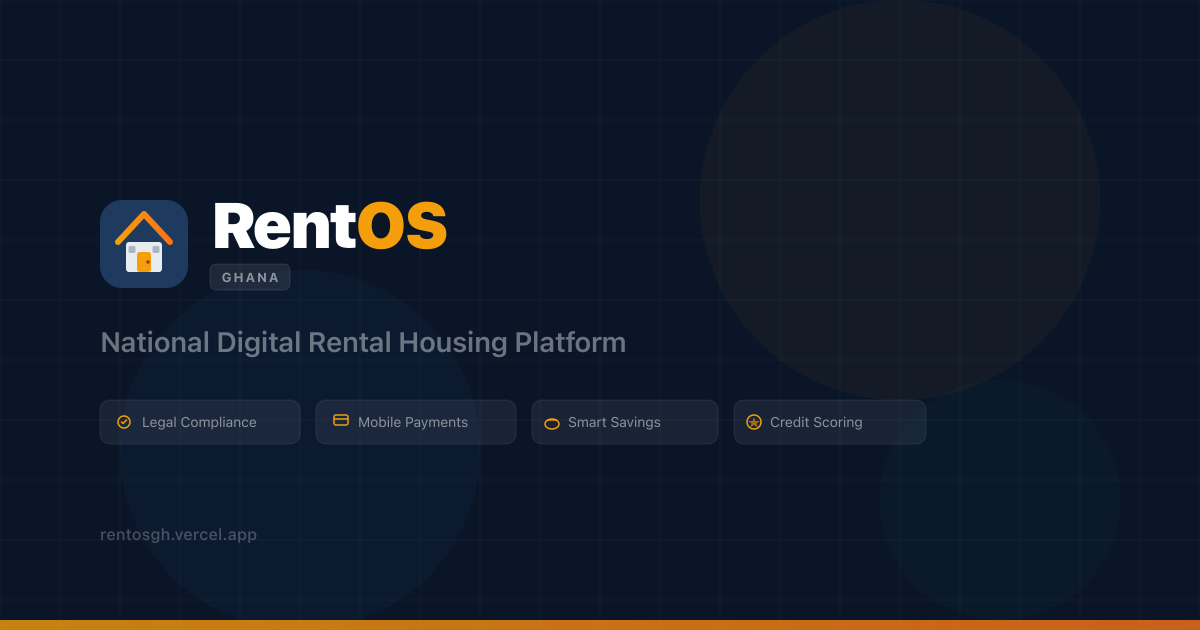
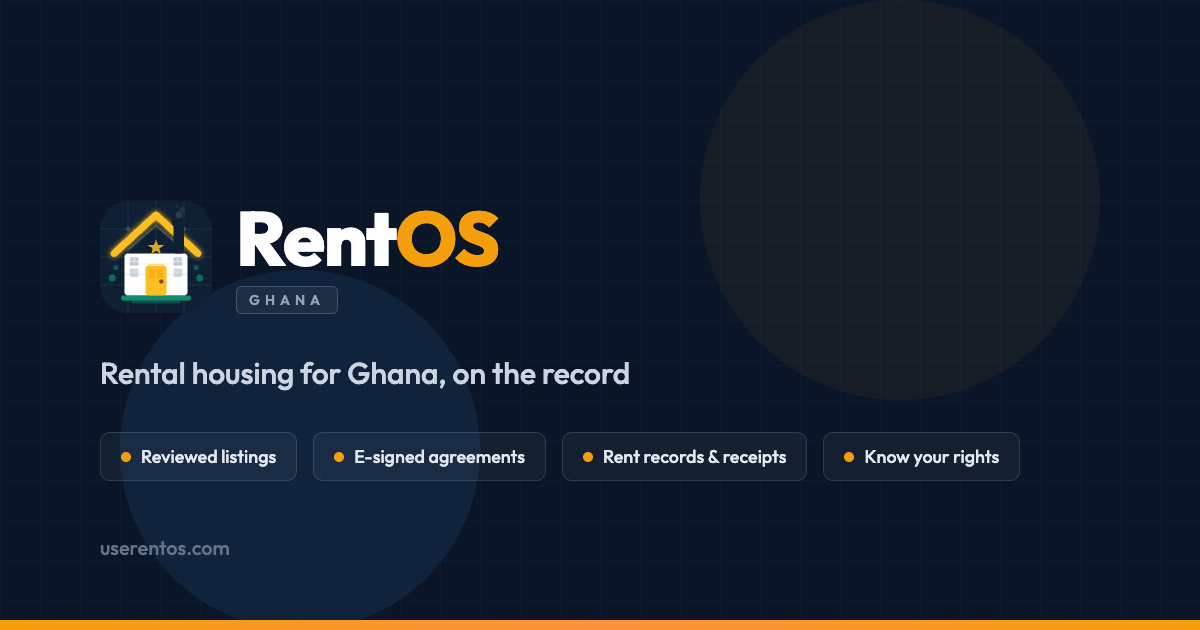
fix: last copy and hardening items from production re-verification
- Blog: posts about a regulated service (RentGuard savings, credit scores,
  mobile-money rent payments) carry requiresFeature and stay hidden from
  the public blog and landing page while that service is off. The seeder
  tags existing copies without touching updatedAt.
- Site metadata: description, social cards, keywords and manifest no
  longer advertise mobile-money payments, savings or credit scoring; the
  social preview image is replaced (it said "National Digital Rental
  Housing Platform" and showed an old domain).
- Privacy: credit scores and financier/employer sharing are described as
  applying only where those services are offered.
- API: request bodies are parsed after the rate limiters, so malformed or
  oversized bodies still count; every response varies on Origin; cast
  errors no longer echo the input or internal field names.

diff --git a/apps/api/src/data/referenceData.ts b/apps/api/src/data/referenceData.ts
@@ -92,13 +92,13 @@ export const LEGAL_ARTICLES = [
 
 export const BLOG_POSTS = [
     { reviewed: true, title: 'Understanding the Rent Advance Limit in Ghana', slug: 'rent-advance-cap', coverImage: 'https://images.unsplash.com/photo-1554224155-6726b3ff858f?w=800', excerpt: 'What the Rent Act says about how much rent advance a landlord may demand.', content: '## What Does the Law Say?\n\nSection 25(5) of the **Rent Act, 1963 (Act 220)** limits rent advance:\n\n- For a tenancy of **more than six months**, a landlord may not demand more than **six months\'** rent in advance.\n- For a **monthly** (or shorter) tenancy, the limit is **one month\'s** rent.\n\nWhich limit applies depends on the length of the tenancy, not on the amount asked for.\n\n## What to Do if Your Landlord Asks for More\n\n1. **Talk to your landlord** and refer to the law\n2. **Raise a complaint** with the Rent Control Department\n3. **File a dispute on RentOS** to keep a record and notify the other party\n\n> RentOS flags agreements whose advance exceeds these limits before anyone signs. The flag is information, not legal advice.', author: 'RentOS Team', tags: ['tenant rights', 'rent advance', 'legal guide'], published: true },
-    { reviewed: true, title: 'How to Save for Rent Using RentGuard', slug: 'rentguard-savings-guide', coverImage: 'https://images.unsplash.com/photo-1579621970563-ebec7560ff3e?w=800', excerpt: 'A step-by-step guide to using RentGuard savings plans to plan for your next rent payment.', content: '## What Is RentGuard?\n\n**RentGuard** is the savings feature in RentOS. It helps you set money aside gradually for rent instead of finding a large lump sum at once.\n\n## Getting Started\n\n### Step 1: Create a Savings Plan\n\nGo to **RentGuard** and choose **New Savings Plan**. Set:\n- Your target amount\n- How often you contribute (daily, weekly or monthly)\n- Your target date\n\n### Step 2: Add Money to Your Wallet\n\nTop up your RentOS wallet with mobile money (MTN MoMo, Telecel Cash or AirtelTigo Money) using the payment options shown in the app.\n\n### Step 3: Turn On Auto-Debit (Optional)\n\nWith **auto-debit** on, RentOS moves your contribution from your **RentOS wallet** into your plan on schedule. If your wallet balance is too low, the contribution is skipped and you are notified.\n\n### Step 4: Track Progress\n\nYour plan shows how close you are to your target, and you are notified when you reach it.\n\n> **Tip:** Start saving soon after your last rent payment — small, regular contributions add up.\n\nYour wallet and savings plans are records of money you paid in. They are not bank deposits.', author: 'RentOS Team', tags: ['savings', 'rentguard', 'guide'], published: true },
+    { reviewed: true, title: 'How to Save for Rent Using RentGuard', slug: 'rentguard-savings-guide', requiresFeature: 'wallet' as const, coverImage: 'https://images.unsplash.com/photo-1579621970563-ebec7560ff3e?w=800', excerpt: 'A step-by-step guide to using RentGuard savings plans to plan for your next rent payment.', content: '## What Is RentGuard?\n\n**RentGuard** is the savings feature in RentOS. It helps you set money aside gradually for rent instead of finding a large lump sum at once.\n\n## Getting Started\n\n### Step 1: Create a Savings Plan\n\nGo to **RentGuard** and choose **New Savings Plan**. Set:\n- Your target amount\n- How often you contribute (daily, weekly or monthly)\n- Your target date\n\n### Step 2: Add Money to Your Wallet\n\nTop up your RentOS wallet with mobile money (MTN MoMo, Telecel Cash or AirtelTigo Money) using the payment options shown in the app.\n\n### Step 3: Turn On Auto-Debit (Optional)\n\nWith **auto-debit** on, RentOS moves your contribution from your **RentOS wallet** into your plan on schedule. If your wallet balance is too low, the contribution is skipped and you are notified.\n\n### Step 4: Track Progress\n\nYour plan shows how close you are to your target, and you are notified when you reach it.\n\n> **Tip:** Start saving soon after your last rent payment — small, regular contributions add up.\n\nYour wallet and savings plans are records of money you paid in. They are not bank deposits.', author: 'RentOS Team', tags: ['savings', 'rentguard', 'guide'], published: true },
     { reviewed: true, title: '5 Things Every Tenant Should Know Before Signing a Lease', slug: 'tenant-lease-checklist', coverImage: 'https://images.unsplash.com/photo-1450101499163-c8848c66ca85?w=800', excerpt: 'Essential things to check in your rental agreement before you sign.', content: '## Before You Sign\n\nA tenancy agreement is a serious commitment. Check these five things first.\n\n### 1. Rent Advance\n\nUnder Section 25(5) of the Rent Act, 1963 (Act 220), a landlord may not demand more than **six months\'** advance for a tenancy longer than six months, or more than **one month\'s** for a monthly tenancy.\n\n### 2. Notice Period\n\nCheck the notice each party must give to end the tenancy.\n\n### 3. Repairs\n\nThe Rent Act requires landlords to keep the premises in a reasonable state of repair. The agreement should say who handles which repairs.\n\n### 4. Utilities\n\nWho pays for water, electricity and internet? Get it in writing.\n\n### 5. Disputes\n\nDoes the agreement say how disputes will be handled?\n\n> **Bottom line:** Take time to read the whole agreement. RentOS flags some terms that may breach rental law, but the checks are automated and incomplete — they are not legal advice.', author: 'RentOS Team', tags: ['tenant rights', 'agreements', 'tips'], published: true },
     { reviewed: true, title: "A Landlord's Guide to Digital Rental Agreements", slug: 'landlord-digital-agreements', coverImage: 'https://images.unsplash.com/photo-1554224154-22dec7ec8818?w=800', excerpt: 'What digital agreements on RentOS do, and how to create one.', content: '## Why Go Digital?\n\n- **Automated checks** flag some terms that may breach rental law, such as rent advance above the legal limit, before anyone signs\n- **Electronic signatures** — electronic signatures and records are recognised under the Electronic Transactions Act, 2008 (Act 772); whether a particular agreement is enforceable still depends on its terms and the law\n- Both parties can **open the agreement at any time**\n- A clear record helps if a **dispute** arises\n\n## How to Create One on RentOS\n\n1. Go to **Agreements > New Agreement**\n2. Select the property and the tenant\n3. Set the rent amount, duration and advance\n4. Add your terms\n5. Review any **compliance flags**\n6. Send to the tenant for signature\n\n> The compliance checks are information, not legal advice. For anything unusual, speak to a lawyer.', author: 'RentOS Team', tags: ['landlord guide', 'agreements', 'digital'], published: true },
-    { reviewed: true, title: 'How Your Rental Credit Score Works on RentOS', slug: 'rental-credit-score', coverImage: 'https://images.unsplash.com/photo-1611974789855-9c2a0a7236a3?w=800', excerpt: 'The factors that make up your RentOS credit score and how to improve it.', content: '## What Is Your Rental Credit Score?\n\nYour RentOS credit score is a **0–100 rating** calculated from your activity on RentOS. Landlords you apply to can see it.\n\n## Score Breakdown\n\n| Factor | Max Points | What It Measures |\n|---|---|---|\n| Payment History | **40** | Completed rent payments on RentOS |\n| Savings Consistency | **20** | RentGuard savings progress |\n| Agreement Compliance | **20** | An active agreement with no compliance flags |\n| Dispute Record | **10** | Open or escalated disputes lower it |\n| Account Age | **10** | How long you have had your account |\n\n## Tips to Improve Your Score\n\n- **Pay rent through RentOS** — payment history is worth the most points\n- **Save regularly** with RentGuard, even small amounts\n- **Resolve disputes** through mediation\n\n> The score only reflects what happens on RentOS. If you think it is wrong, contact support and ask for a person to review it.', author: 'RentOS Team', tags: ['credit score', 'tenant guide'], published: true },
+    { reviewed: true, title: 'How Your Rental Credit Score Works on RentOS', slug: 'rental-credit-score', requiresFeature: 'credit_reporting' as const, coverImage: 'https://images.unsplash.com/photo-1611974789855-9c2a0a7236a3?w=800', excerpt: 'The factors that make up your RentOS credit score and how to improve it.', content: '## What Is Your Rental Credit Score?\n\nYour RentOS credit score is a **0–100 rating** calculated from your activity on RentOS. Landlords you apply to can see it.\n\n## Score Breakdown\n\n| Factor | Max Points | What It Measures |\n|---|---|---|\n| Payment History | **40** | Completed rent payments on RentOS |\n| Savings Consistency | **20** | RentGuard savings progress |\n| Agreement Compliance | **20** | An active agreement with no compliance flags |\n| Dispute Record | **10** | Open or escalated disputes lower it |\n| Account Age | **10** | How long you have had your account |\n\n## Tips to Improve Your Score\n\n- **Pay rent through RentOS** — payment history is worth the most points\n- **Save regularly** with RentGuard, even small amounts\n- **Resolve disputes** through mediation\n\n> The score only reflects what happens on RentOS. If you think it is wrong, contact support and ask for a person to review it.', author: 'RentOS Team', tags: ['credit score', 'tenant guide'], published: true },
     { reviewed: true, title: 'Navigating Rent Disputes in Ghana: A Practical Guide', slug: 'rent-dispute-guide', coverImage: 'https://images.unsplash.com/photo-1589829545856-d10d557cf95f?w=800', excerpt: 'Step-by-step guide to handling common rental disputes in Ghana.', content: '## Disputes Happen — Here Is How to Handle Them\n\n## Step 1: Document Everything\n\nKeep records of **all messages, payments and agreements**. Take photos of any damage or repair issues.\n\n## Step 2: Communicate in Writing\n\nFollow up conversations in writing — text, email or RentOS messages.\n\n## Step 3: File a Dispute on RentOS\n\nRentOS records your complaint and notifies the other party. Where available, a mediator can help.\n\n## Step 4: Rent Control Department\n\nIf you cannot agree, the Rent Control Department investigates complaints and can arrange mediation. Bring your agreement, receipts, photos and correspondence.\n\n## Step 5: The Courts\n\nIf mediation fails, the matter can go to court. Consider getting legal advice.\n\n> This guide is general information, not legal advice.', author: 'RentOS Team', tags: ['disputes', 'legal guide', 'tenant rights'], published: true },
     { reviewed: true, title: 'A Guide to the Rent Control Department', slug: 'ghana-rent-control-guide', coverImage: 'https://images.unsplash.com/photo-1541872703-74c5e44368f9?w=800', excerpt: 'What the Rent Control Department does and how to raise a complaint.', content: '## What Is the Rent Control Department?\n\nThe Rent Control Department was established under the **Rent Act, 1963 (Act 220)**. It investigates complaints about residential tenancies and can arrange mediation between landlords and tenants.\n\n## Raising a Complaint\n\nVisit your nearest Rent Control office and bring:\n\n- Your tenancy agreement (if you have one)\n- Rent receipts\n- Photos of the premises, for repair issues\n- A written statement of your complaint\n- Any messages or letters with the other party\n\nCheck opening hours, fees and procedures with the office before you go.\n\n> This guide is general information, not legal advice.', author: 'RentOS Team', tags: ['rent control', 'legal guide'], published: true },
-    { reviewed: true, title: 'Mobile Money and Rent Payments: A Modern Guide', slug: 'mobile-money-rent-payments', coverImage: 'https://images.unsplash.com/photo-1556742049-0cfed4f6a45d?w=800', excerpt: 'How to pay rent with MTN MoMo, Telecel Cash and AirtelTigo Money on RentOS.', content: '## Paying Rent with Mobile Money\n\nRentOS accepts rent payments by mobile money through our payment provider.\n\n## Supported Wallets\n\n- **MTN Mobile Money (MoMo)**\n- **Telecel Cash**\n- **AirtelTigo Money**\n\nBank transfer is also offered where it is available in the app.\n\n## Security Tips\n\n- Never share your mobile money PIN — RentOS will never ask for it\n- Pay through RentOS so you get a receipt for every payment\n- Turn on transaction notifications on your phone\n\n> Completed rent payments through RentOS count towards your rental credit score.', author: 'RentOS Team', tags: ['payments', 'mobile money', 'guide'], published: true },
+    { reviewed: true, title: 'Mobile Money and Rent Payments: A Modern Guide', slug: 'mobile-money-rent-payments', requiresFeature: 'rent_collection' as const, coverImage: 'https://images.unsplash.com/photo-1556742049-0cfed4f6a45d?w=800', excerpt: 'How to pay rent with MTN MoMo, Telecel Cash and AirtelTigo Money on RentOS.', content: '## Paying Rent with Mobile Money\n\nRentOS accepts rent payments by mobile money through our payment provider.\n\n## Supported Wallets\n\n- **MTN Mobile Money (MoMo)**\n- **Telecel Cash**\n- **AirtelTigo Money**\n\nBank transfer is also offered where it is available in the app.\n\n## Security Tips\n\n- Never share your mobile money PIN — RentOS will never ask for it\n- Pay through RentOS so you get a receipt for every payment\n- Turn on transaction notifications on your phone\n\n> Completed rent payments through RentOS count towards your rental credit score.', author: 'RentOS Team', tags: ['payments', 'mobile money', 'guide'], published: true },
 ]
 
 /** Items fit for a production database — see ReviewMeta. The flag is stripped. */

diff --git a/apps/web/src/pages/legal/PrivacyPage.tsx b/apps/web/src/pages/legal/PrivacyPage.tsx
@@ -78,7 +78,7 @@ export function PrivacyPage() {
             <><strong>Tenant profile (optional):</strong> details you choose to add, such as date of birth, household (spouse, children, dependents, occupants), employment, income and income sources, education, languages, lifestyle (smoking, drinking, pets, noise, dietary needs), religion, references, emergency contact, rental and eviction history, budget and search preferences, and proof-of-income or proof-of-address documents. Religion and dietary needs can reveal special personal data (religious belief or health). They are never required — leave them blank unless you want landlords you share your profile with to see them.</>,
             <><strong>Tenancy and property records:</strong> listings (address, photos, rent, features), applications, agreements and signatures, move-in/move-out and inspection records, maintenance requests, disputes and the statements in them, reviews, and favourites.</>,
             <><strong>Money:</strong> rent and other payments, receipts, wallet and savings-plan records, payout accounts (bank or mobile-money numbers), and — if you use them — loan, financing, insurance, investment and payroll-deduction records. We never receive your mobile-money PIN or card number.</>,
-            <><strong>Scores we calculate:</strong> your Rent Credit Score, calculated from your payment, savings, agreement and dispute history on RentOS and your account age.</>,
+            <><strong>Scores:</strong> credit scoring is not currently offered. Where it is (only with a licensed provider), a Rent Credit Score may be calculated from your payment, savings, agreement and dispute history on RentOS and your account age.</>,
             <><strong>Messages and reports:</strong> chat messages, content you report, and people you block. Messages are not end-to-end encrypted.</>,
             <><strong>Business and work profiles:</strong> for service providers, businesses, employers, agents and financiers — the business and contact details you enter (for employers this includes TIN and SSNIT employer number, and employee records you add).</>,
             <><strong>Device and usage data:</strong> IP address, device and browser type, push-notification tokens, and server logs. Views of public registry pages are recorded with a one-way hash of the IP address, the browser details and the referring page.</>,
@@ -118,7 +118,7 @@ export function PrivacyPage() {
           id: 'data-sharing',
           title: 'Who We Share It With',
           content: list([
-            <><strong>Other users, as the service requires:</strong> landlords and agents see the applications and profile information you send them; parties to an agreement or dispute see what is relevant to it; financiers see applications you submit to them, including your Rent Credit Score; employers see the housing and deduction records you link to them; public listings are visible to anyone.</>,
+            <><strong>Other users, as the service requires:</strong> landlords and agents see the applications and profile information you send them; parties to an agreement or dispute see what is relevant to it; where financing or payroll deductions are offered (they are not currently), financiers see applications you submit to them and employers see the housing and deduction records you link to them; public listings are visible to anyone.</>,
             <><strong>RentOS staff and appointed officials:</strong> our administrators, and officials we give an account (for example, rent-control or legal officers who mediate disputes), can see what their role needs under access controls and audit logging — including the user directory (name, email, phone, role), identity-verification requests with the Ghana Card number submitted, disputes they handle, and failed-payment records reviewed for fraud. Gross rent totals are visible to government accounts only for landlords who switch on tax reporting. Market statistics we publish are aggregated.</>,
             <><strong>Service providers</strong> that process data for us, listed below.</>,
             <><strong>Integrations you set up:</strong> if your organisation registers a webhook, the record IDs and titles it subscribes to are sent to the address you chose.</>,

diff --git a/apps/web/index.html b/apps/web/index.html
@@ -6,8 +6,8 @@
 
     <!-- Primary Meta -->
     <title>RentOS Ghana — Digital Rental Housing Platform</title>
-    <meta name="description" content="A digital platform for renting in Ghana. Find rental properties, sign tenancy agreements electronically, pay rent via mobile money, build your rental history, and resolve disputes — all in one platform." />
-    <meta name="keywords" content="rent, Ghana, rental housing, property management, mobile money, MTN MoMo, tenant, landlord, rental agreement, credit score, proptech" />
+    <meta name="description" content="A digital platform for renting in Ghana. Find reviewed rental listings, sign tenancy agreements electronically, keep your rent records and receipts, and resolve disputes, all in one place." />
+    <meta name="keywords" content="rent, Ghana, rental housing, property management, tenant, landlord, rental agreement, tenancy law, proptech" />
     <meta name="author" content="RentOS Ghana" />
     <meta name="theme-color" content="#1e3a5f" />
 
@@ -19,7 +19,7 @@
     <meta property="og:type" content="website" />
     <meta property="og:url" content="__SITE_URL__/" />
     <meta property="og:title" content="RentOS Ghana — Digital Rental Housing Platform" />
-    <meta property="og:description" content="Find rental properties, sign tenancy agreements electronically, pay rent via mobile money, build your rental history, and resolve disputes — all in one platform." />
+    <meta property="og:description" content="Find reviewed rental listings, sign tenancy agreements electronically, keep your rent records, and resolve disputes, all in one place." />
     <meta property="og:image" content="__SITE_URL__/og-image.png" />
     <meta property="og:image:width" content="1200" />
     <meta property="og:image:height" content="630" />
@@ -30,12 +30,12 @@
     <meta name="twitter:card" content="summary_large_image" />
     <meta name="twitter:url" content="__SITE_URL__/" />
     <meta name="twitter:title" content="RentOS Ghana — Digital Rental Housing Platform" />
-    <meta name="twitter:description" content="Find rental properties, sign tenancy agreements electronically, pay rent via mobile money, build your rental history, and resolve disputes — all in one platform." />
+    <meta name="twitter:description" content="Find reviewed rental listings, sign tenancy agreements electronically, keep your rent records, and resolve disputes, all in one place." />
     <meta name="twitter:image" content="__SITE_URL__/og-image.png" />
 
     <!-- WhatsApp / General -->
     <meta itemprop="name" content="RentOS Ghana" />
-    <meta itemprop="description" content="A digital platform for renting in Ghana. Find a home, pay rent, save, and know your rights." />
+    <meta itemprop="description" content="A digital platform for renting in Ghana. Find a home, sign your agreement, keep your records, and know your rights." />
     <meta itemprop="image" content="__SITE_URL__/og-image.png" />
 
     <!-- Canonical -->

diff --git a/apps/api/src/__tests__/blog-regulated-posts.integration.test.ts b/apps/api/src/__tests__/blog-regulated-posts.integration.test.ts
@@ -1,0 +1,49 @@
+import mongoose from 'mongoose'
+import express from 'express'
+import type { Server } from 'node:http'
+import type { AddressInfo } from 'node:net'
+import { afterAll, afterEach, beforeAll, describe, expect, it } from 'vitest'
+import { BlogPost } from '../models/BlogPost.js'
+import { reloadRegulatedFeatures } from '../config/regulatedFeatures.js'
+import { seedReviewedReferenceContent } from '../data/seedReferenceContent.js'
+import router from '../routes/blog.js'
+
+const uri = 'mongodb://localhost:28018/rentos_compliance_e2e'
+const slugs = ['rentguard-savings-guide', 'rent-dispute-guide']
+describe.skipIf(process.env.RENTOS_TEST_MONGO_URI !== uri)('blog posts about regulated services', () => {
+  let server: Server
+  const base = () => `http://127.0.0.1:${(server.address() as AddressInfo).port}/api/blog`
+  const seededAt = new Date('2026-08-13T16:14:26Z')
+
+  beforeAll(async () => {
+    await mongoose.connect(uri)
+    await BlogPost.deleteMany({ slug: { $in: slugs } })
+    await BlogPost.collection.insertMany(slugs.map(slug => ({ slug, title: slug, content: `Edited copy of ${slug}`, excerpt: 'x', author: 'RentOS', published: true, platform: true, createdAt: seededAt, updatedAt: new Date('2026-09-01T00:00:00Z') })))
+    const app = express(); app.use('/api/blog', router)
+    server = await new Promise<Server>(resolve => { const listener = app.listen(0, '127.0.0.1', () => resolve(listener)) })
+  })
+  afterEach(() => reloadRegulatedFeatures(process.env))
+  afterAll(async () => {
+    if (server) await new Promise<void>(resolve => server.close(() => resolve()))
+    await BlogPost.deleteMany({ slug: { $in: slugs } })
+    await mongoose.disconnect()
+  })
+
+  it('tags existing posts with the feature they describe without marking them edited', async () => {
+    await seedReviewedReferenceContent()
+    const savings = await BlogPost.findOne({ slug: 'rentguard-savings-guide' }).lean()
+    expect(savings).toMatchObject({ requiresFeature: 'wallet', content: 'Edited copy of rentguard-savings-guide' })
+    expect((savings as unknown as { updatedAt: Date }).updatedAt.toISOString()).toBe('2026-09-01T00:00:00.000Z')
+  })
+
+  it('hides a post about a disabled service from the list and its page, and shows it once offered', async () => {
+    reloadRegulatedFeatures({ NODE_ENV: 'production' })
+    const hidden = (await (await fetch(base())).json()).data.items.map((p: { slug: string }) => p.slug)
+    expect(hidden).toContain('rent-dispute-guide')
+    expect(hidden).not.toContain('rentguard-savings-guide')
+    expect((await fetch(`${base()}/slug/rentguard-savings-guide`)).status).toBe(404)
+
+    reloadRegulatedFeatures({ NODE_ENV: 'production', REGULATED_FEATURES: 'wallet', REGULATED_BASIS_WALLET: 'licence' })
+    expect((await fetch(`${base()}/slug/rentguard-savings-guide`)).status).toBe(200)
+  })
+})

diff --git a/apps/api/src/routes/blog.ts b/apps/api/src/routes/blog.ts
@@ -6,6 +6,7 @@ import { BlogPost } from '../models/BlogPost.js'
 import { success, error } from '../utils/response.js'
 import { param } from '../utils/params.js'
 import { User } from '../models/User.js'
+import { REGULATED_FEATURES, isRegulatedFeatureEnabled } from '../config/regulatedFeatures.js'
 
 const router = Router()
 
@@ -38,9 +39,16 @@ const PLATFORM_ONLY: Record<string, unknown> = {
   ] }],
 }
 
+// Posts about a regulated service stay hidden while it isn't offered, so the
+// blog never advertises something the operator isn't licensed to provide.
+function offeredOnly(): Record<string, unknown> {
+  const off = REGULATED_FEATURES.filter((feature) => !isRegulatedFeatureEnabled(feature))
+  return off.length ? { requiresFeature: { $nin: off } } : {}
+}
+
 // Public: list published posts on the platform's own blog
 router.get('/', async (req, res) => {
-  const filter: Record<string, unknown> = { published: true, ...PLATFORM_ONLY }
+  const filter: Record<string, unknown> = { published: true, ...PLATFORM_ONLY, ...offeredOnly() }
   if (req.query.tag) filter.tags = req.query.tag
   if (req.query.search) {
     const escaped = escapeRegex(String(req.query.search))
@@ -57,7 +65,7 @@ router.get('/', async (req, res) => {
 
 // Public: get single post by slug
 router.get('/slug/:slug', async (req, res) => {
-  const slugFilter: Record<string, unknown> = { slug: param(req.params.slug), published: true, ...PLATFORM_ONLY }
+  const slugFilter: Record<string, unknown> = { slug: param(req.params.slug), published: true, ...PLATFORM_ONLY, ...offeredOnly() }
   const post = await BlogPost.findOne(slugFilter).lean()
   if (!post) { error(res, 'Post not found', 404); return }
   success(res, { ...post, id: (post._id as Types.ObjectId).toString() })

diff --git a/apps/api/src/index.ts b/apps/api/src/index.ts
@@ -144,6 +144,9 @@ if (envOrigins.length === 0 && isProduction) {
   )
 }
 
+// The CORS headers depend on Origin even when an origin is refused, so say so
+// to any cache in front of the API.
+app.use((_req, res, next) => { res.vary('Origin'); next() })
 app.use(
   cors({
     origin: createCorsOrigin({
@@ -162,12 +165,6 @@ app.use(
 app.use('/api/webhooks/payments', paymentWebhookRoutes)
 app.use('/api/webhooks/marketplace', marketplaceWebhookRoutes)
 app.use('/api/webhooks/payouts', payoutWebhookRoutes)
-
-app.use(express.json({ limit: '100kb' }))
-
-// NoSQL injection guard — strip $-prefixed / dotted keys from all input
-// before any route can feed them into a Mongoose query.
-app.use(sanitizeRequest)
 
 // ─── Simulator → finalize bridge ───
 // In `PAYMENTS_PROVIDER_MODE !== 'live'`, the simulator dispatches a completion
@@ -284,6 +281,12 @@ app.get('/api/health', (_req, res) => {
 // Baseline limiter for everything else under /api — generous, so legitimate
 // use is unaffected but unauthenticated scraping loops are capped.
 app.use('/api', apiLimiter)
+// Bodies are parsed after the limiters, so a malformed or oversized body is
+// still counted against them instead of failing before they run.
+app.use(express.json({ limit: '100kb' }))
+// NoSQL injection guard — strip $-prefixed / dotted keys from all input
+// before any route can feed them into a Mongoose query.
+app.use(sanitizeRequest)
 // Request logging middleware. Query strings are stripped: they can carry
 // credentials (e.g. ?token= on download links) and must never hit log files.
 app.use((req, res, next) => {

diff --git a/apps/api/src/data/seedReferenceContent.ts b/apps/api/src/data/seedReferenceContent.ts
@@ -1,4 +1,5 @@
 import { createHash } from 'crypto'
+import type { RegulatedFeature } from '../config/regulatedFeatures.js'
 import { LegalArticle } from '../models/LegalArticle.js'
 import { BlogPost } from '../models/BlogPost.js'
 import { LEGAL_ARTICLES, BLOG_POSTS, SUPERSEDED_SEED_CONTENT, reviewedOnly } from './referenceData.js'
@@ -71,6 +72,12 @@ export async function seedReviewedReferenceContent(): Promise<{ articles: Conten
     } else if (existing.content !== post.content && untouchedSeed(existing, SUPERSEDED_SEED_CONTENT.blogPosts[post.slug])) {
       await BlogPost.updateOne({ _id: existing._id }, { $set: post })
       posts.corrected++
+    }
+    // Visibility metadata follows the seed even on edited copies; leave updatedAt
+    // alone so the copy still reads as untouched for future corrections.
+    const requiresFeature = (post as { requiresFeature?: RegulatedFeature }).requiresFeature
+    if (existing && requiresFeature) {
+      await BlogPost.updateOne({ _id: existing._id, requiresFeature: { $ne: requiresFeature } }, { $set: { requiresFeature } }, { timestamps: false })
     }
   }
   const seededSlugs = new Set(reviewedPosts.map((p) => p.slug))

diff --git a/apps/api/src/models/BlogPost.ts b/apps/api/src/models/BlogPost.ts
@@ -1,4 +1,5 @@
 import mongoose, { Schema, type Document } from 'mongoose'
+import { REGULATED_FEATURES, type RegulatedFeature } from '../config/regulatedFeatures.js'
 
 export interface IBlogPost extends Document {
   title: string
@@ -19,6 +20,8 @@ export interface IBlogPost extends Document {
    * flag existed — see PLATFORM_ONLY in routes/blog.ts for how those are read.
    */
   platform?: boolean
+  // A post that describes a regulated service is public only while it is offered.
+  requiresFeature?: RegulatedFeature
   status?: 'draft' | 'in_review' | 'scheduled' | 'published' | 'archived' | 'removed'
   scheduledFor?: Date
   /**
@@ -46,6 +49,7 @@ const blogPostSchema = new Schema<IBlogPost>({
   authorId: { type: String, index: true },
   storefrontId: { type: String, index: true },
   platform: { type: Boolean, index: true },
+  requiresFeature: { type: String, enum: REGULATED_FEATURES },
   status: { type: String, enum: ['draft', 'in_review', 'scheduled', 'published', 'archived', 'removed'], default: 'draft', index: true },
   scheduledFor: Date,
   publishedAt: Date,

diff --git a/apps/api/src/__tests__/cors-policy.test.ts b/apps/api/src/__tests__/cors-policy.test.ts
@@ -56,3 +56,13 @@ describe('CORS origin policy', () => {
     }
   })
 })
+
+describe('cast errors', () => {
+  it('do not echo the raw input or internal field names', async () => {
+    const res = { status: vi.fn().mockReturnThis(), json: vi.fn() }
+    const err = Object.assign(new Error('Cast to ObjectId failed'), { name: 'CastError', kind: 'ObjectId', value: 'not-an-id', path: '_id' })
+    errorHandler(err, {} as never, res as never, (() => {}) as never)
+    expect(res.status).toHaveBeenCalledWith(400)
+    expect(res.json).toHaveBeenCalledWith({ success: false, error: 'Invalid id' })
+  })
+})

diff --git a/apps/api/src/middleware/errorHandler.ts b/apps/api/src/middleware/errorHandler.ts
@@ -37,7 +37,8 @@ export function errorHandler(
   if (err.name === 'CastError') {
     const castErr = err as { kind?: string; value?: string; path?: string }
     logger.warn(`Cast error: invalid ${castErr.kind} for value "${castErr.value}"`)
-    res.status(400).json({ success: false, error: `Invalid ${castErr.path}: ${castErr.value}` })
+    // Don't echo the input or internal field names back to the caller.
+    res.status(400).json({ success: false, error: castErr.path === '_id' ? 'Invalid id' : `Invalid value for ${castErr.path}` })
     return
   }
 
